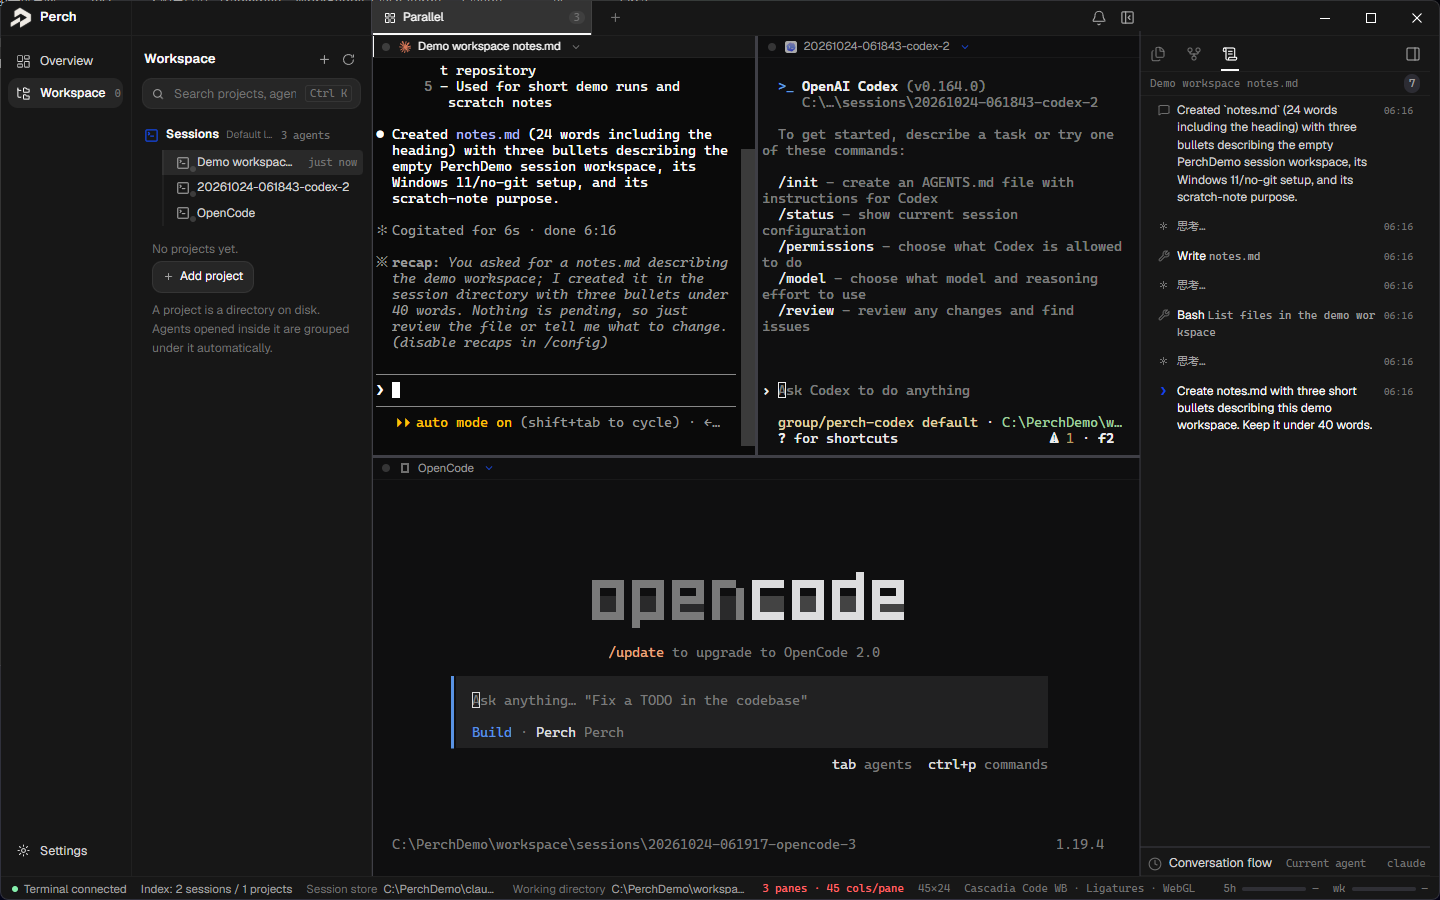
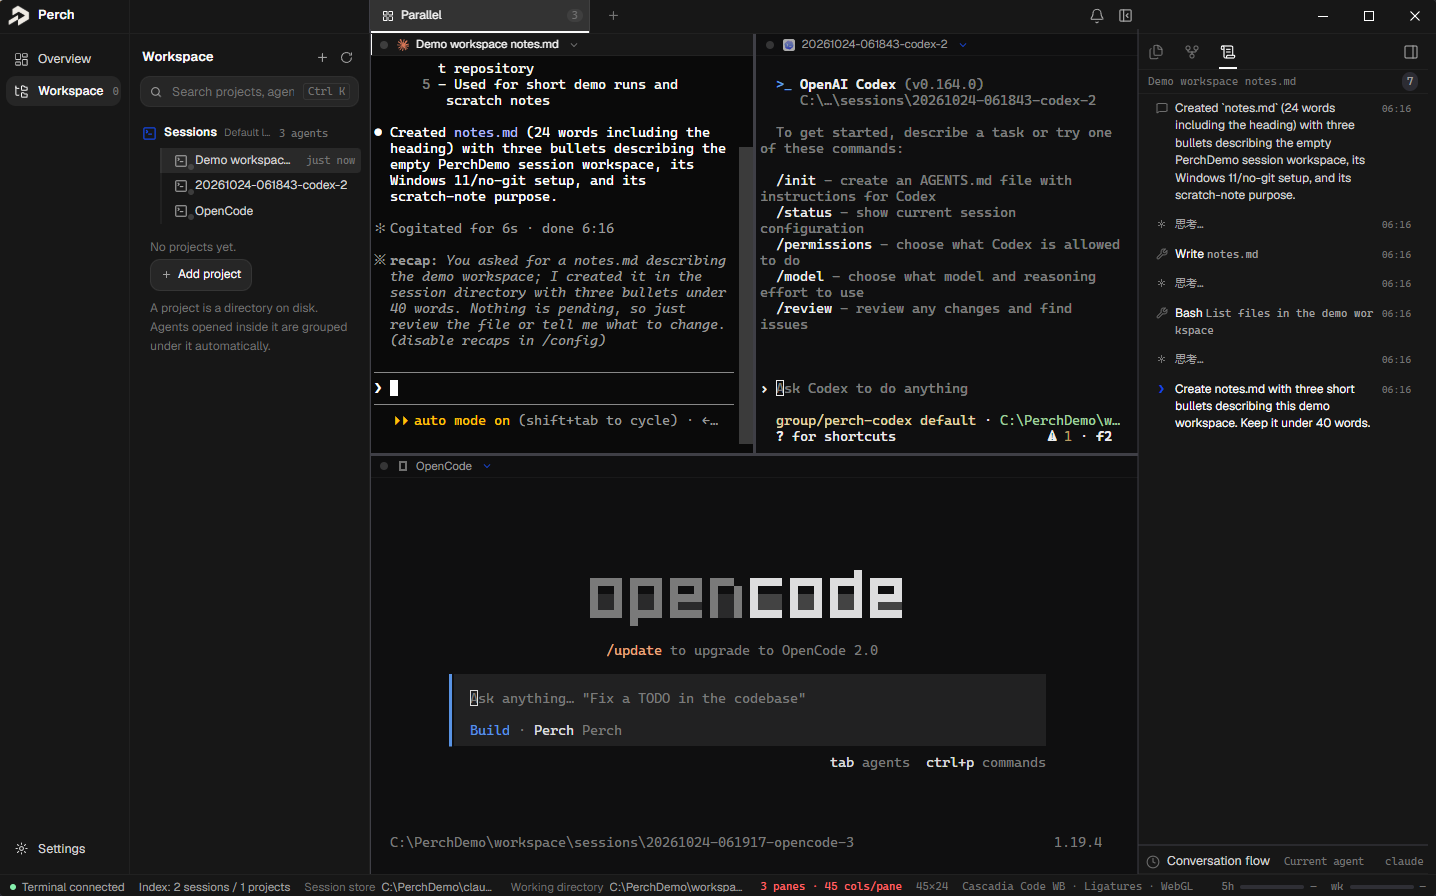
docs: add clean feature cards and repair the hero edge

diff --git a/README.md b/README.md
@@ -31,13 +31,25 @@ Perch is an agent development environment, not a chat client. It owns the termin
 
 Collapse the terminal grid and each agent becomes one fixed-height row: what it last said, whether it is idle or waiting, and one click back into its pane. The row is a summary, not a second transcript.
 
+<p align="center">
+  <a href="docs/images/work-board.png"><img src="docs/images/work-board.png" alt="Perch work board with one fixed row per agent" width="860"></a>
+</p>
+
 ## Agent setup in one place
 
 Install, configure, and open an agent from the same list. Perch detects what is installed, runs the official installer or npm package when you ask, and applies each agent's model and effort settings per pane, where the agent exposes them. The gateway's model lists and provider choices are read from the running engine, not kept as a second copy.
 
+<p align="center">
+  <a href="docs/images/agent-setup.png"><img src="docs/images/agent-setup.png" alt="Perch agent setup with model and effort controls" width="860"></a>
+</p>
+
 ## A local gateway you can inspect
 
 Providers, routing, usage, and plugins use magpie's own console, embedded in Perch. The engine runs locally, its data stays on this machine, and the console keeps magpie's own wording and attribution.
+
+<p align="center">
+  <a href="docs/images/gateway.png"><img src="docs/images/gateway.png" alt="Perch agent panes connected through a local magpie gateway to providers" width="860"></a>
+</p>
 
 **Also included:** exact session resume with an honest fallback, close-is-not-delete, and a read-only file rail beside the active agent.
 
